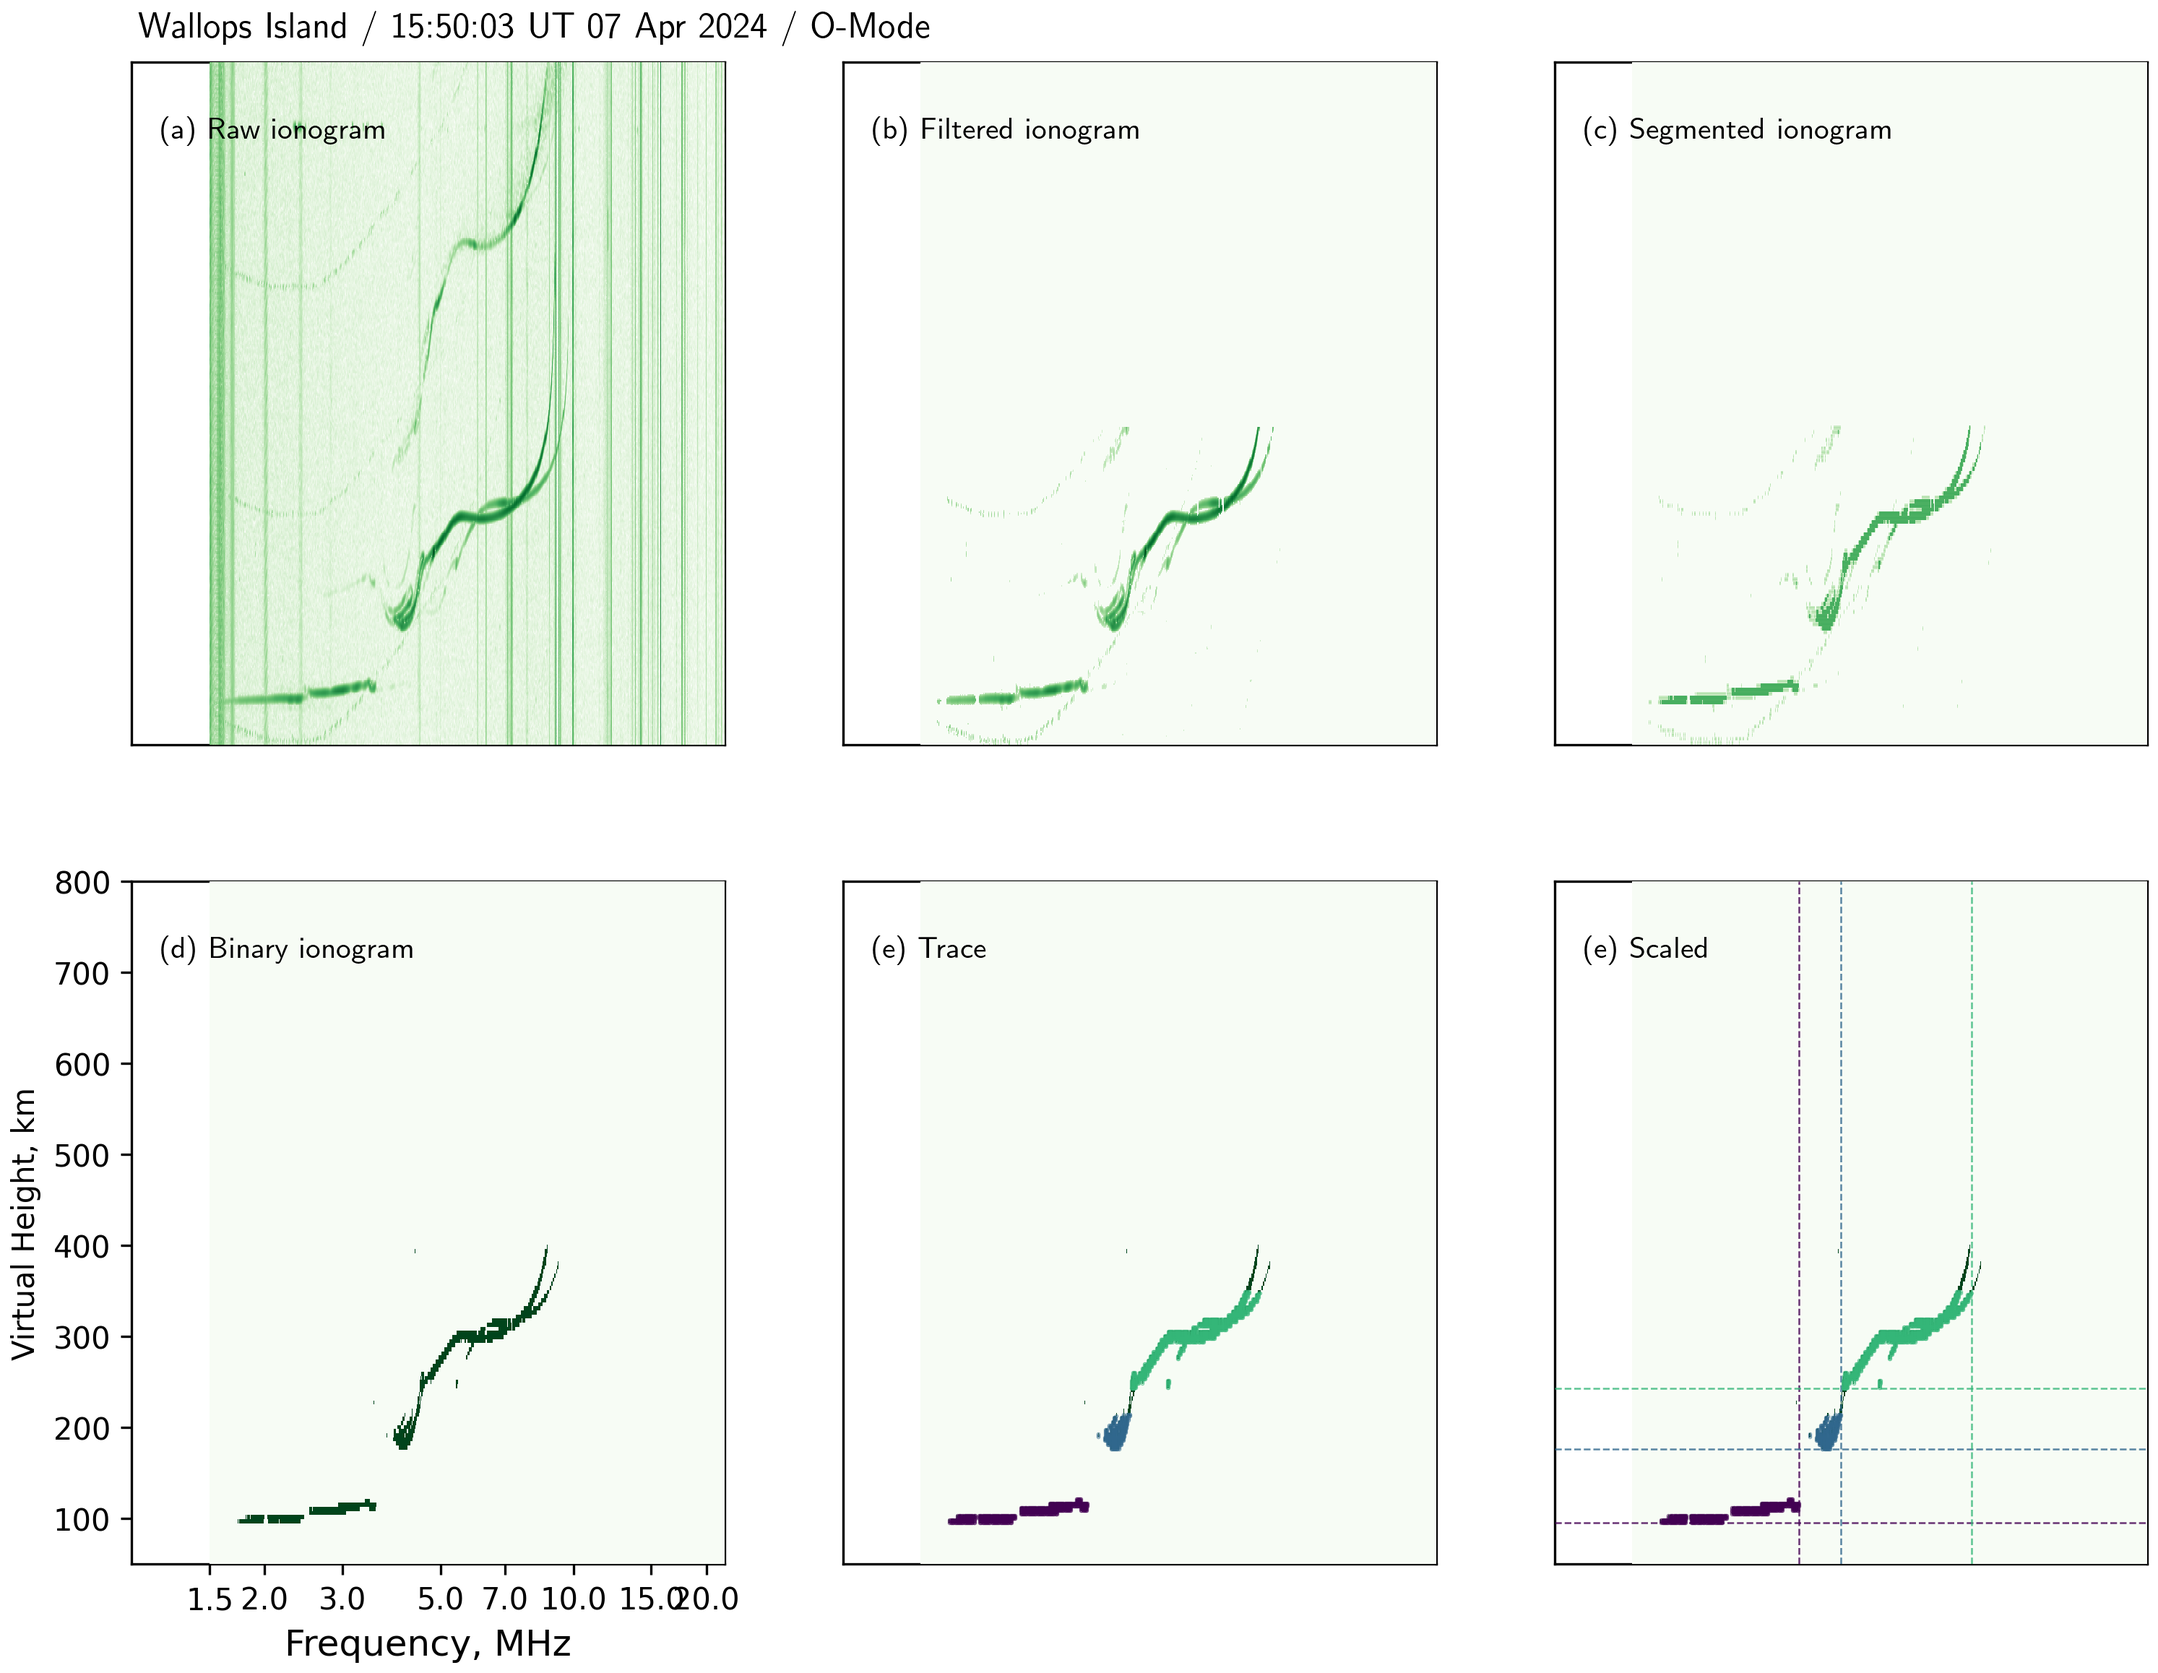
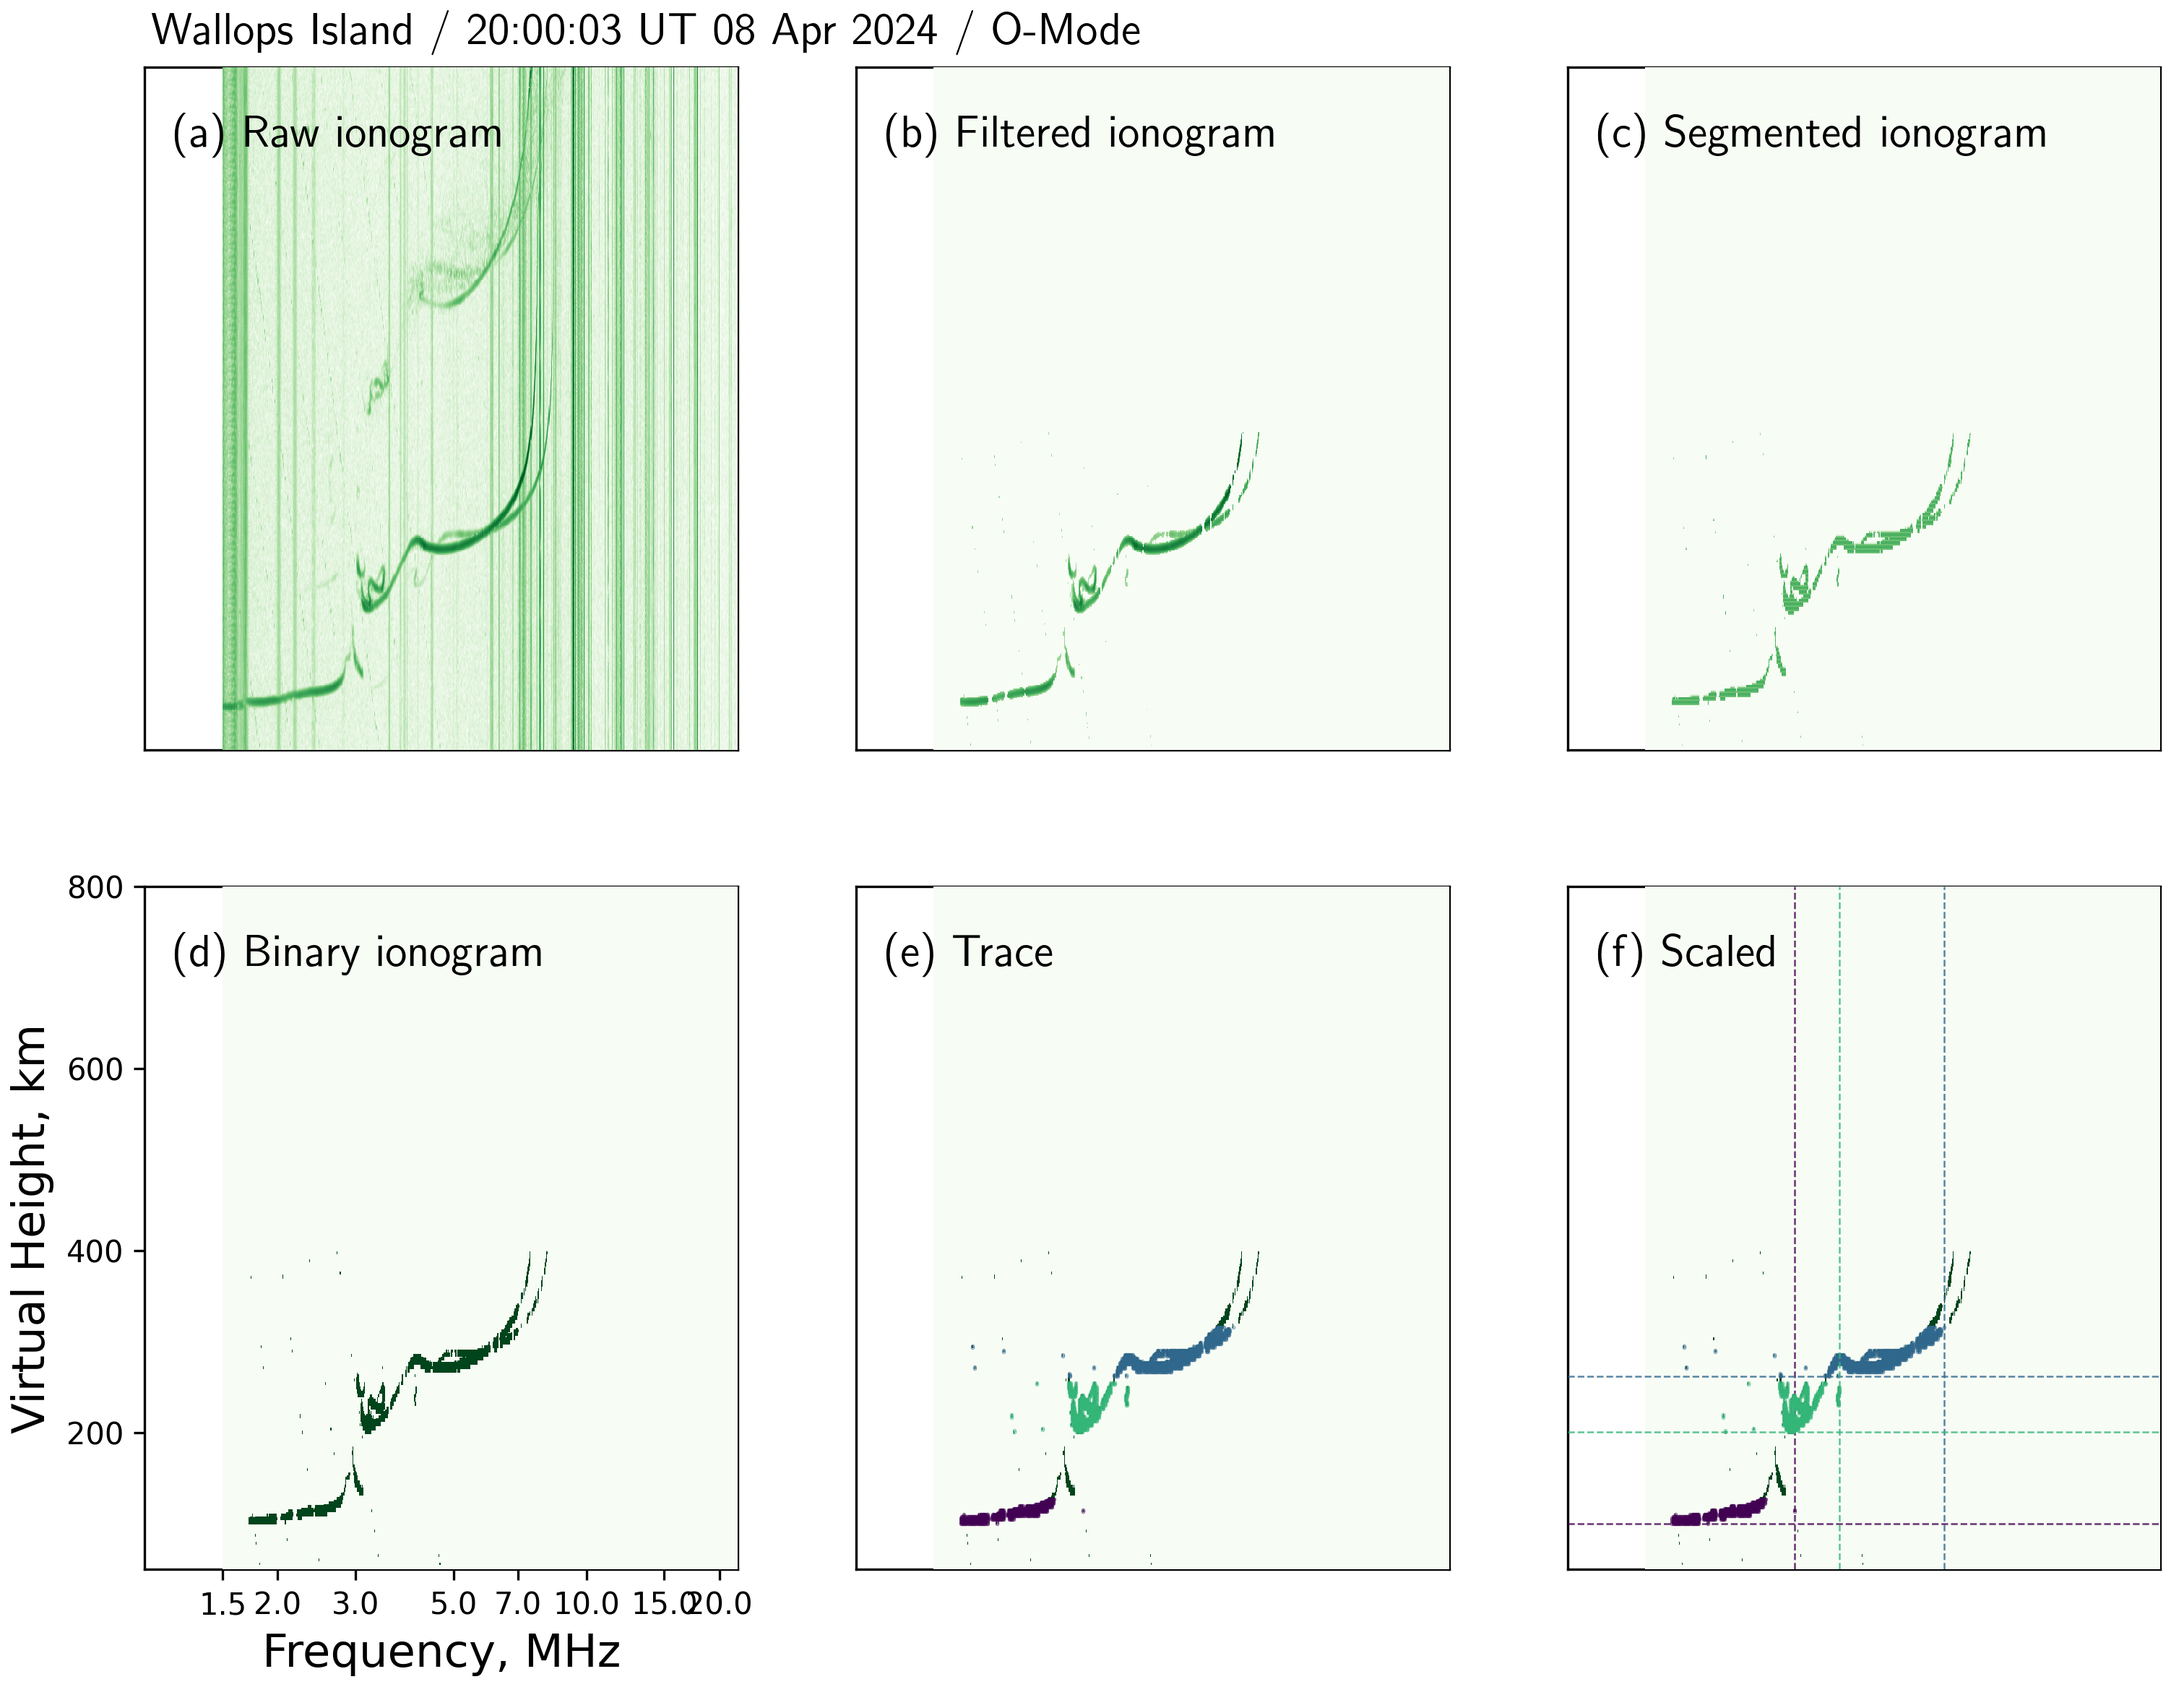
updates on 10/14

diff --git a/pynasonde/ngi/plotlib.py b/pynasonde/ngi/plotlib.py
@@ -32,6 +32,7 @@ class Ionogram(object):
         )  # Size for website
         self.axes = self.axes.ravel()
         self.fig_title = fig_title
+        self.font_size = font_size
         utils.setsize(font_size)
         self._num_subplots_created = 0
         return
@@ -56,9 +57,12 @@ class Ionogram(object):
     ) -> None:
         ax = self._add_axis(del_ticks)
         ax.set_xlim(np.log10(xlim))
-        ax.set_xlabel(xlabel, fontdict={"size": 12})
+        ax.set_xlabel(xlabel, fontdict={"size": self.font_size})
         ax.set_ylim(ylim)
-        ax.set_ylabel(ylabel)
+        ax.set_ylabel(
+            ylabel,
+            fontdict={"size": self.font_size},
+        )
         im = ax.pcolormesh(
             np.log10(frequency),
             height,
@@ -81,6 +85,7 @@ class Ionogram(object):
                 ha="left",
                 va="center",
                 transform=ax.transAxes,
+                fontdict={"size": self.font_size},
             )
         if add_cbar:
             self._add_colorbar(im, self.fig, ax, label=cbar_label.format(mode))
@@ -99,7 +104,7 @@ class Ionogram(object):
                 ha="left",
                 va="center",
                 transform=ax.transAxes,
-                fontdict={"size": 12},
+                fontdict={"size": self.font_size},
             )
         self._num_subplots_created += 1
         return ax
@@ -121,9 +126,9 @@ class Ionogram(object):
         xlim = xlim if xlim is not None else [df.time.min(), df.time.max()]
         ax = self._add_axis()
         ax.set_xlim(xlim)
-        ax.set_xlabel(xlabel)
+        ax.set_xlabel(xlabel, fontdict={"size": self.font_size})
         ax.set_ylim(ylim)
-        ax.set_ylabel(ylabel)
+        ax.set_ylabel(ylabel, fontdict={"size": self.font_size})
         hours = mdates.HourLocator(byhour=range(0, 24, 4))
         ax.xaxis.set_major_locator(hours)
         ax.xaxis.set_major_formatter(DateFormatter(r"%H^{%M}"))

diff --git a/code/eclipse_fof2_plot.py b/code/eclipse_fof2_plot.py
@@ -1,14 +1,14 @@
 from pynasonde.ngi.source import DataSource, Trace
 
 ds = DataSource(source_folder="./tmp/20240408/")
-ds.load_data_sets(0, -1)
+ds.load_data_sets(1200, 1201)
 from pynasonde.ngi.scale import AutoScaler, NoiseProfile
 
 constant = 2
 thresh = 3
 eps = 4
-min_samples = 50
-modes = ["O", "X"]
+min_samples = 70
+modes = ["O"]
 for mode in modes:
     for i, dx in enumerate(ds.datasets):
         scaler = AutoScaler(
@@ -16,7 +16,7 @@ for mode in modes:
         )
         scaler.image_segmentation()
         scaler.to_binary_traces(thresh=thresh, eps=eps, min_samples=min_samples)
-        scaler.draw_sanity_check_images(f"tmp/scan_{i}.png")
+        scaler.draw_sanity_check_images(f"tmp/scan_{i}.png", font_size=15)
         del scaler
     ds.save_scaled_parameters(
         {

diff --git a/pynasonde/ngi/utils.py b/pynasonde/ngi/utils.py
@@ -5,9 +5,6 @@ def setsize(size=8):
     import matplotlib.pyplot as plt
 
     plt.style.use(["science", "ieee"])
-    mpl.rcParams.update(
-        {"xtick.labelsize": size, "ytick.labelsize": size, "font.size": size}
-    )
     plt.rcParams["font.family"] = "sans-serif"
     plt.rcParams["font.sans-serif"] = [
         "Tahoma",
@@ -15,6 +12,9 @@ def setsize(size=8):
         "Lucida Grande",
         "Verdana",
     ]
+    mpl.rcParams.update(
+        {"xtick.labelsize": size, "ytick.labelsize": size, "font.size": size}
+    )
     return
 
 

diff --git a/pynasonde/ngi/scale.py b/pynasonde/ngi/scale.py
@@ -169,9 +169,13 @@ class AutoScaler(object):
         prange: List[float] = [5, 70],
         ylim: List[float] = [50, 800],
         xlim: List[float] = [1, 22],
+        font_size: float = 10,
+        figsize: tuple = (6, 3),
     ):
         ion = Ionogram(
             fig_title=f"{self.ds.StationName.strip()} / {self.ds.time.strftime('%H:%M:%S UT %d %b %Y')} / {self.mode}-Mode",
+            font_size=font_size,
+            figsize=figsize,
         )
         ion.add_ionogram(
             self.frequency,

diff --git a/code/eclipse_time_series.py b/code/eclipse_time_series.py
@@ -38,7 +38,7 @@ ion.add_TS(
     major_locator=mdates.HourLocator(byhour=range(0, 24, 6)),
     minor_locator=mdates.HourLocator(byhour=range(0, 24, 3)),
     ylabel=r"$fo_s$, MHz",
-    ylim=[1, 15]
+    ylim=[1, 15],
 )
 ion.add_TS(
     O.time.tolist(),
